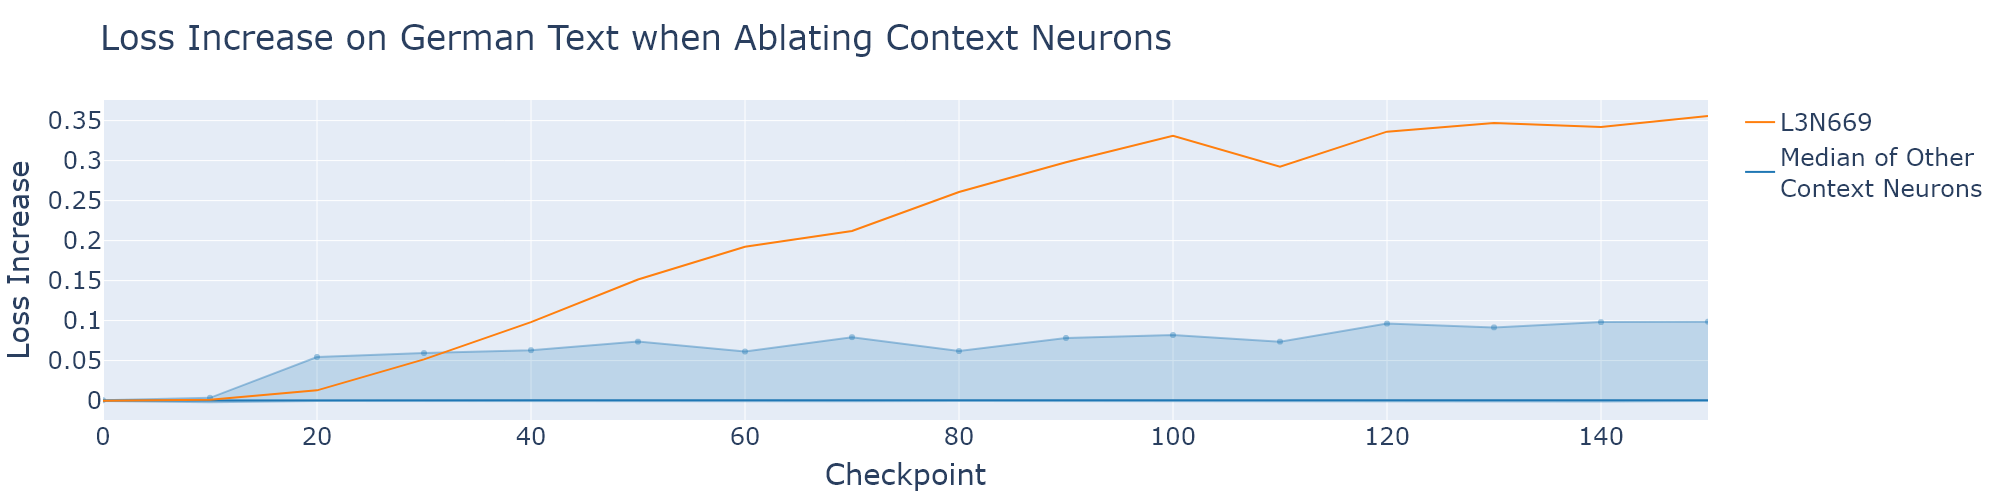
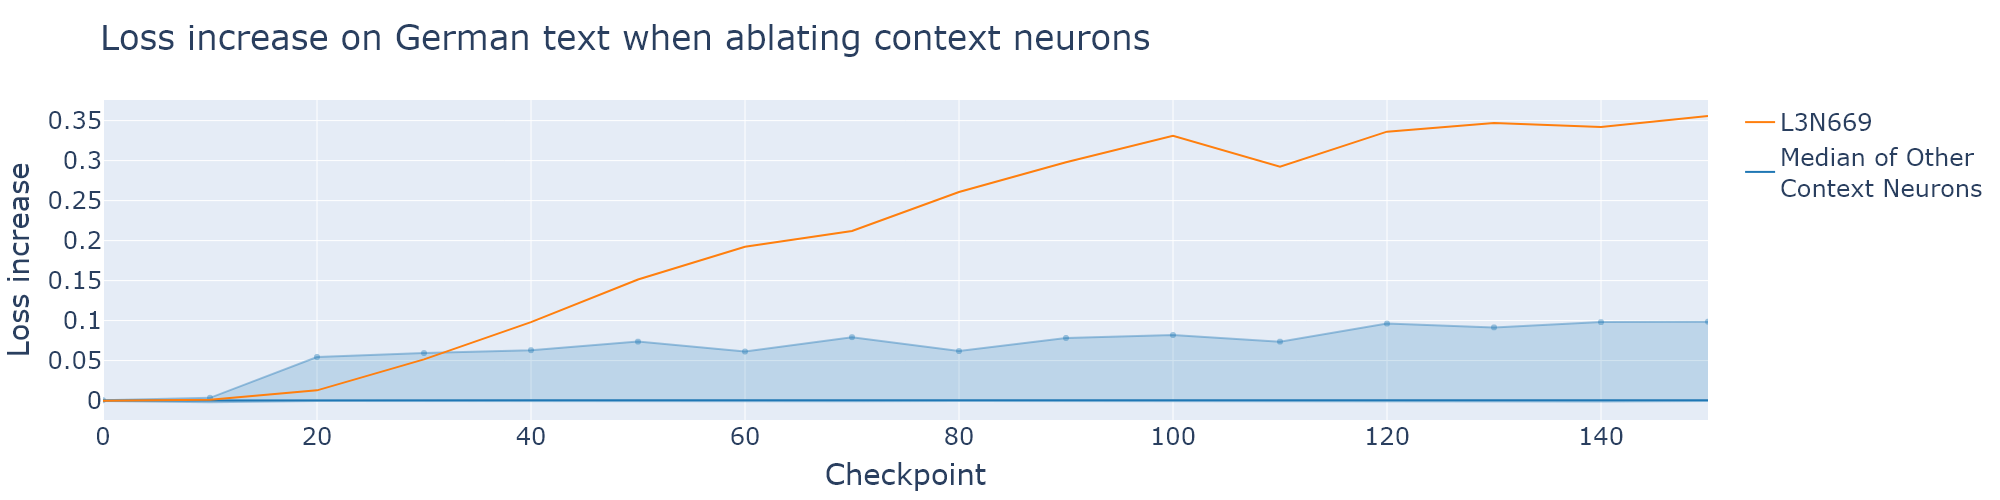
Updated plot titles

Changed region(s): [[0.093, 0.03, 0.589, 0.12], [0.0, 0.33, 0.031, 0.54], [0.0, 0.6, 0.031, 0.72]]

diff --git a/feature_formation_viz.py b/feature_formation_viz.py
@@ -88,7 +88,7 @@ def process_data(model_name: str, output_dir: Path, image_dir: Path) -> None:
     fig.add_trace(go.Scatter(x=grouped['Checkpoint'], y=grouped['95%'], fill='tonexty', fillcolor='rgba(31,119,180,0.2)', line_color='rgba(31,119,180,0.2)', showlegend=False))
     fig.add_trace(go.Scatter(x=grouped['Checkpoint'], y=grouped['50%'], mode='lines', line=dict(color='rgb(31,119,180)', width=2), name="Median of Other<br>Context Neurons"))
     fig.add_trace(go.Scatter(x=L3N669_df['Checkpoint'], y=L3N669_df['F1'], mode='lines', line=dict(color='#FF7F0E', width=2), name="L3N669"))
-    fig.update_layout(title="F1 Scores of German Context Neurons", xaxis_title="Checkpoint", yaxis_title="F1 score", font=dict(size=24))
+    fig.update_layout(title="F1 scores of German context neurons", xaxis_title="Checkpoint", yaxis_title="F1 score", font=dict(size=24))
 
     fig.write_image(image_dir.joinpath("top_f1s_with_quartiles.png"), width=2000)
 

diff --git a/contextual_ngram_formation_viz.py b/contextual_ngram_formation_viz.py
@@ -59,7 +59,7 @@ def produce_images(save_data_path: Path, save_image_path: Path):
     fig.add_trace(go.Scatter(x=grouped['Checkpoint'], y=grouped['50%'], mode='lines', line=dict(color='#1F77B4', width=2), name="Median of Other<br>Context Neurons"))
     fig.add_trace(go.Line(x=L3N669_df['Checkpoint'], y=L3N669_df['Loss Increase'], mode='lines', line=dict(color='#FF7F0E', width=2), name="L3N669"))
 
-    fig.update_layout(title="Loss Increase on German Text when Ablating Context Neurons", xaxis_title="Checkpoint", yaxis_title="Loss Increase", font=dict(size=24))
+    fig.update_layout(title="Loss increase on German text when ablating context neurons", xaxis_title="Checkpoint", yaxis_title="Loss increase", font=dict(size=24))
 
     fig.write_image(save_image_path.joinpath("ablation_increase_german_text.png"), width=2000)
 

diff --git a/indirect_effects_viz.py b/indirect_effects_viz.py
@@ -49,7 +49,7 @@ def process_data(model_name: str, output_dir: Path, image_dir: Path) -> None:
 
     melt_df = context_effect_df.melt(id_vars=["Checkpoint"], var_name="Type", value_name="LossIncrease", value_vars=["Direct Effect", "Indirect Effect"])
     fig = px.line(melt_df, x="Checkpoint", y="LossIncrease", color="Type", title="Direct and indirect ablation effect of L3N669 on German text")
-    fig.update_layout(xaxis_title="Checkpoint", yaxis_title="Loss Increase", font=dict(size=24))
+    fig.update_layout(xaxis_title="Checkpoint", yaxis_title="Loss increase", font=dict(size=24))
 
     fig.write_image(image_dir.joinpath("direct_indirect_effect.png"), width=2000)
 
